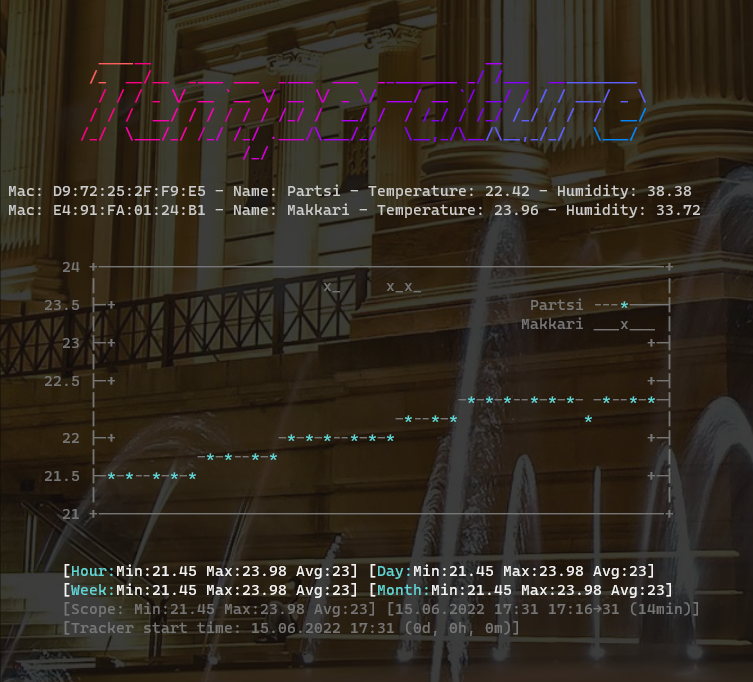
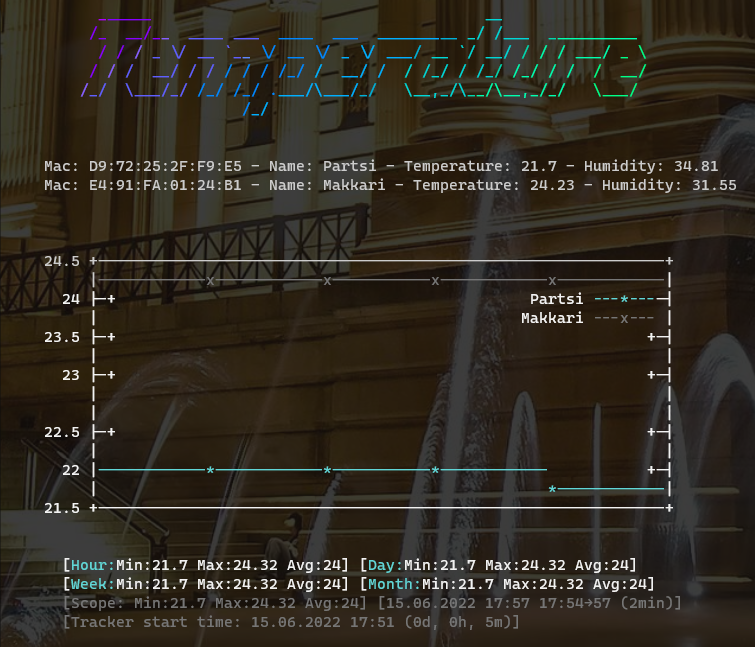
doc: add to examples

diff --git a/README.md b/README.md
@@ -74,9 +74,15 @@ With loop repetition disabled:
 docker compose run -e RUUVI_CLI_REPETITION_IN_SECONDS=0 commandline-client
 ```
 
-### Example cli output
+### Example commandline outputs
+
+**Simple:** RUUVI_CLI_SIMPLE_OUTPUT=tru
 
 ```
 Mac: A1:CD:EF:GH:IJ:K1 - Name: Konna K1 - Temperature: 23.78 - Humidity: 20.59
 Mac: A1:CD:EF:GH:IJ:K9 - Name: Doggo K9 - Temperature: 20.95 - Humidity: 18.33
 ```
+
+**Advanced:**
+
+![Advanced output example](./resources/screenshot.png)
